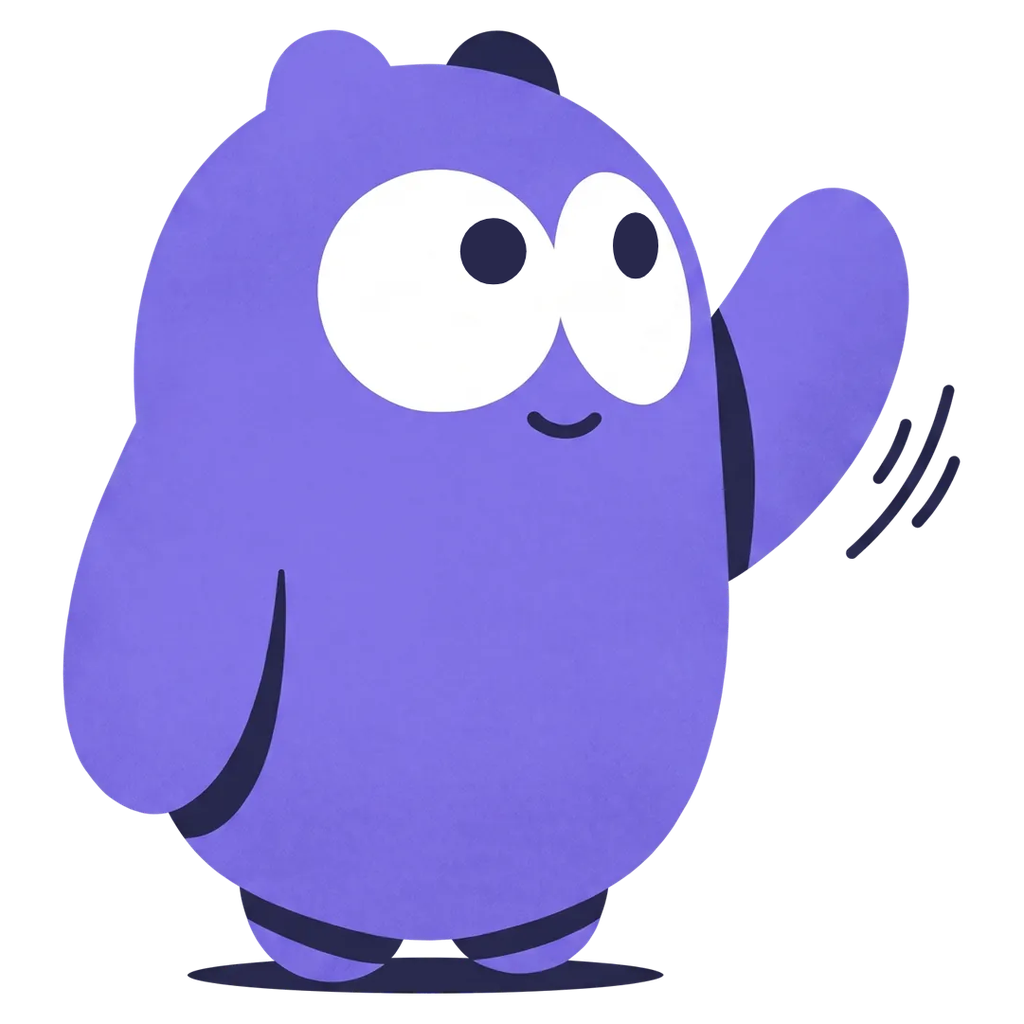
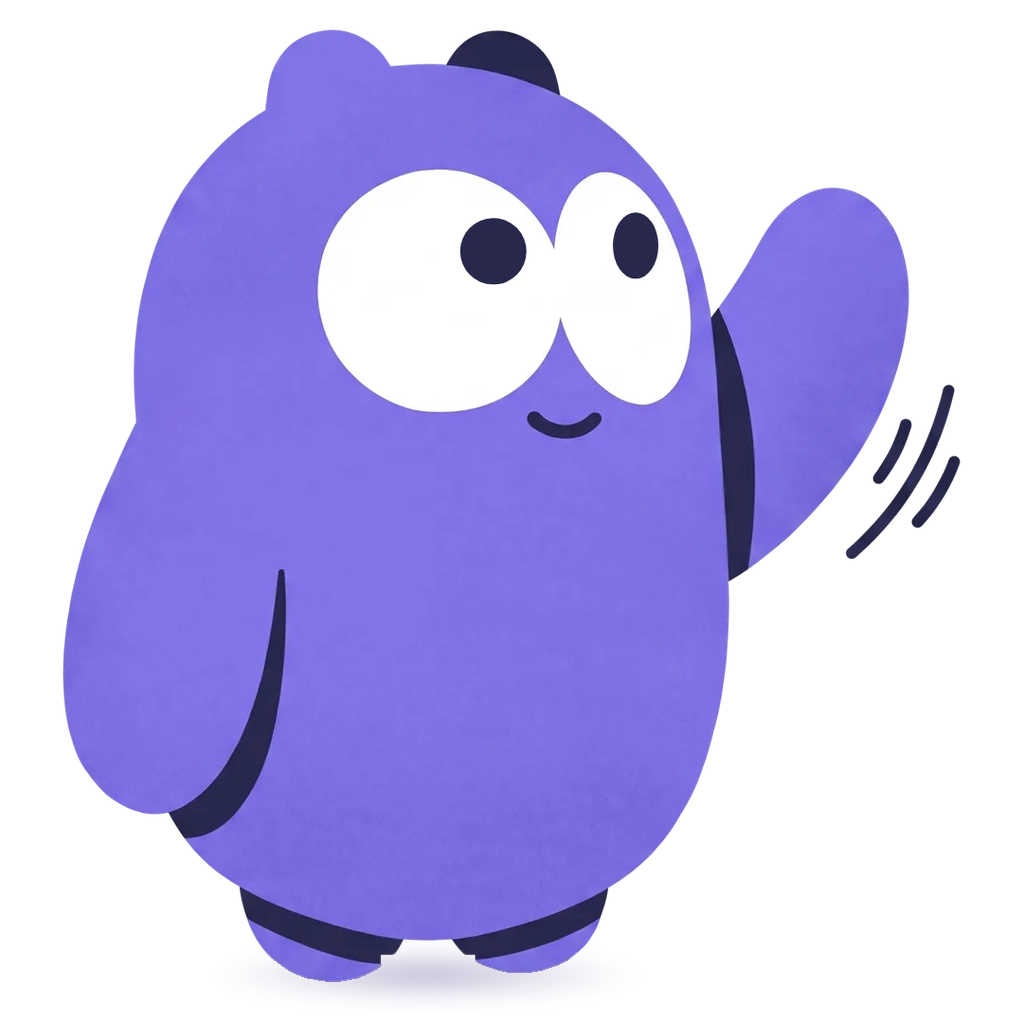
Shipped: polish both scenes and the totals
Pocket Factory
- No sticker is cut through its words any more: the QR side of a card takes the top left, the
  lime card shows whole at the bottom left, and a printed sample from Pocket Factory's gallery
  (Pulse Social) replaces the blank 'YOUR LOGO' card.
- The Tap + QR badge moves off the P logo; the background deepens from paper to lime.
- The back button turns to light glass on this light scene.

Mopkin
- The waving Mopkin shows both eyes on a phone; the magnifier Mopkin moves to the top right to
  inspect the icon; the happy one stands on the cover's corner, now sharp; the phone moves to the
  bottom right where all of its screen shows.
- Their hard navy floor ovals are now mopkin.app's own soft shadow.
- Deeper violet behind the text, so the grey labels pass contrast.

Cards and totals
- The Live chip goes (it repeated itself and pulsed forever); numbers sit just under the name.
- The totals are two tiles, each with a bar in the products' own colours, headed like the
  homepage's shop.

Claude-Session: https://claude.ai/code/session_01DNXqCmtC3gjubJpbTgqA6a

Changed region(s): [[0.1875, 0.9062, 0.6562, 0.9688]]

diff --git a/components/shipped/ShippedScenes.tsx b/components/shipped/ShippedScenes.tsx
@@ -44,14 +44,16 @@ const COVERS: Record<string, MediaAsset> = {
 };
 
 const STICKERS: Record<string, SceneSticker[]> = {
+  // A card pushed off one side of the screen only shows its other end, so each one is turned so the
+  // end that shows is the part worth seeing (the QR, the P mark), and nothing is cut through words.
   'pocket-factory': [
     {
-      key: 'card-lime',
-      src: pf.cardLime,
-      alt: 'Lime Pocket Factory card',
-      frame: { left: -372, top: -236, size: 700 },
+      key: 'card-back',
+      src: pf.cardBack,
+      alt: 'Back of a card: tap a phone, or scan the QR code',
+      frame: { left: -350, top: -210, size: 696 },
       zIndex: 4,
-      baseRotate: -17,
+      baseRotate: -13,
       movement: { x: -70, y: -112, rotate: -7, scale: 0.06, fadeRate: 0.95 },
       float: { x: -8, y: -10, rotate: -2.2, duration: '8.6s', delay: '0.1s' },
       intro: { x: -170, y: -130, rotate: -12, delay: '0.12s' },
@@ -68,10 +70,11 @@ const STICKERS: Record<string, SceneSticker[]> = {
       intro: { x: 170, y: -140, rotate: 12, delay: '0.18s' },
     },
     {
+      // Over the cover's right edge, clear of the P.
       key: 'tap-badge',
       src: pf.tapBadge,
       alt: 'Tap + QR sticker',
-      frame: { left: 642, top: 452, size: 290 },
+      frame: { left: 684, top: 452, size: 270 },
       zIndex: 25,
       baseRotate: 12,
       movement: { x: 60, y: -96, rotate: 12, scale: 0.08, fadeRate: 1.15 },
@@ -79,23 +82,24 @@ const STICKERS: Record<string, SceneSticker[]> = {
       intro: { x: 150, y: -30, rotate: 18, delay: '0.34s' },
     },
     {
-      key: 'card-back',
-      src: pf.cardBack,
-      alt: 'Back of a card: tap phone, or scan the QR code',
-      frame: { left: -430, top: 1330, size: 800 },
+      key: 'card-lime',
+      src: pf.cardLime,
+      alt: 'Lime Pocket Factory card',
+      frame: { left: -60, top: 1420, size: 560 },
       zIndex: 5,
-      baseRotate: -13,
+      baseRotate: -11,
       movement: { x: -72, y: 118, rotate: 5, scale: 0.08, fadeRate: 1.04 },
       float: { x: -8, y: -10, rotate: -1.8, duration: '8.9s', delay: '0.26s' },
       intro: { x: -180, y: 168, rotate: 10, delay: '0.36s' },
     },
     {
-      key: 'card-front',
-      src: pf.cardFront,
-      alt: 'Front of a card with your logo',
-      frame: { left: 486, top: 1350, size: 800 },
+      // A printed sample from Pocket Factory's own gallery.
+      key: 'card-sample',
+      src: pf.cardSample,
+      alt: 'A printed Pocket Factory card for a social media studio',
+      frame: { left: 500, top: 1390, size: 600 },
       zIndex: 5,
-      baseRotate: 9,
+      baseRotate: 6,
       movement: { x: 78, y: 130, rotate: -4, scale: 0.08, fadeRate: 1.08 },
       float: { x: 9, y: -9, rotate: 1.8, duration: '8.2s', delay: '0.62s' },
       intro: { x: 160, y: 176, rotate: -10, delay: '0.44s' },
@@ -103,43 +107,46 @@ const STICKERS: Record<string, SceneSticker[]> = {
   ],
   mopkin: [
     {
+      // Top right, turned to inspect the icon (top left is where the back button sits).
       key: 'magnify',
       src: mk.magnify,
       alt: 'Mopkin with a magnifying glass',
-      frame: { left: -282, top: -10, size: 470 },
+      frame: { left: 640, top: -30, size: 380 },
       zIndex: 18,
-      baseRotate: -8,
-      movement: { x: -82, y: -116, rotate: -8, scale: 0.06, fadeRate: 0.95 },
-      float: { x: -8, y: -9, rotate: -2.4, duration: '7.8s', delay: '0.1s' },
-      intro: { x: -180, y: -120, rotate: -12, delay: '0.12s' },
+      baseRotate: 8,
+      flipX: true,
+      movement: { x: 76, y: -120, rotate: 6, scale: 0.06, fadeRate: 0.95 },
+      float: { x: 8, y: -9, rotate: 2.4, duration: '7.8s', delay: '0.1s' },
+      intro: { x: 170, y: -140, rotate: 12, delay: '0.12s' },
     },
     {
       // Peeks over the top of the cover, hands on its edge (the art's ledge is 80% down).
       key: 'peek',
       src: mk.peek,
       alt: 'Mopkin peeking over the card',
-      frame: { left: 470, top: CARD_TOP - 240, size: 300 },
+      frame: { left: 330, top: CARD_TOP - 240, size: 300 },
       zIndex: 12,
       movement: { x: 30, y: -120, rotate: 6, scale: 0.05, fadeRate: 1.1 },
       float: { x: 0, y: 0, rotate: 0, duration: '8s', delay: '0s' },
       intro: { x: 0, y: -160, rotate: 0, delay: '0.5s' },
     },
     {
-      key: 'phone',
-      src: mk.phone,
-      alt: 'Mopkin on an iPhone: pick up the clothes on the floor',
-      frame: { left: 664, top: 960, size: 640 },
-      zIndex: 4,
-      baseRotate: 11,
-      movement: { x: 84, y: -60, rotate: 6, scale: 0.06, fadeRate: 0.95 },
-      float: { x: 8, y: -12, rotate: 1.6, duration: '9.4s', delay: '0.4s' },
-      intro: { x: 190, y: -40, rotate: 12, delay: '0.2s' },
+      // Standing on the cover's bottom-left corner, like the homepage's birds over SOLENYA's.
+      key: 'happy',
+      src: mk.happy,
+      alt: 'Happy Mopkin',
+      frame: { left: 0, top: 690, size: 250 },
+      zIndex: 25,
+      baseRotate: -10,
+      movement: { x: -54, y: -92, rotate: -9, scale: 0.08, fadeRate: 1.15 },
+      float: { x: -8, y: -8, rotate: -3, duration: '6.6s', delay: '0.7s' },
+      intro: { x: -140, y: -24, rotate: -14, delay: '0.34s' },
     },
     {
       key: 'wave',
       src: mk.wave,
       alt: 'Mopkin waving',
-      frame: { left: -236, top: 1380, size: 600 },
+      frame: { left: -190, top: 1380, size: 600 },
       zIndex: 5,
       baseRotate: 6,
       movement: { x: -70, y: 122, rotate: -5, scale: 0.08, fadeRate: 1.04 },
@@ -147,14 +154,15 @@ const STICKERS: Record<string, SceneSticker[]> = {
       intro: { x: -170, y: 170, rotate: -10, delay: '0.38s' },
     },
     {
-      key: 'happy',
-      src: mk.happy,
-      alt: 'Happy Mopkin',
-      frame: { left: 584, top: 1480, size: 290 },
-      zIndex: 5,
-      baseRotate: -6,
+      // Bottom right, where all of its screen shows on a phone.
+      key: 'phone',
+      src: mk.phone,
+      alt: 'Mopkin on an iPhone: pick up the clothes on the floor',
+      frame: { left: 600, top: 1400, size: 520 },
+      zIndex: 4,
+      baseRotate: 10,
       movement: { x: 78, y: 130, rotate: 5, scale: 0.08, fadeRate: 1.08 },
-      float: { x: 8, y: -10, rotate: 2.4, duration: '6.6s', delay: '0.7s' },
+      float: { x: 8, y: -12, rotate: 1.6, duration: '9.4s', delay: '0.4s' },
       intro: { x: 160, y: 176, rotate: 10, delay: '0.46s' },
     },
   ],
@@ -179,6 +187,8 @@ function ShippedCard({ project, cover, loadImages, priority, revealed }: { proje
   const colors = SCENE_TONES[project.tone];
   const hairline = project.tone === 'light' ? 'rgba(255, 255, 255, 0.18)' : 'rgba(18, 18, 14, 0.14)';
   const titleShadow = project.tone === 'light' ? 'scene-title' : undefined;
+  // A little stronger than the homepage's muted text: these labels sit on brighter gradients.
+  const muted = project.tone === 'light' ? 'rgba(255, 255, 255, 0.86)' : 'rgba(30, 23, 18, 0.7)';
 
   return (
     <div
@@ -213,35 +223,15 @@ function ShippedCard({ project, cover, loadImages, priority, revealed }: { proje
           ) : null}
         </a>
 
-        <div className="flex items-center justify-between" style={{ marginTop: scaleValue(52), gap: scaleValue(24) }}>
-          <h2
-            className={`text-balance ${titleShadow ?? ''}`}
-            style={{ margin: 0, fontFamily: SCENE_FONT, fontSize: scaleValue(62), lineHeight: 1.08, fontWeight: 650, letterSpacing: '-0.035em', color: colors.ink }}
-          >
-            {project.name}
-          </h2>
-          <span
-            className="inline-flex shrink-0 items-center"
-            style={{
-              gap: scaleValue(12),
-              height: scaleValue(54),
-              padding: `0 ${scaleValue(22)}`,
-              borderRadius: 999,
-              background: project.tone === 'light' ? 'rgba(255, 255, 255, 0.16)' : 'rgba(18, 18, 14, 0.07)',
-              boxShadow: `inset 0 0 0 1px ${hairline}`,
-              fontFamily: SCENE_FONT,
-              fontSize: `max(9px, ${scaleValue(27)})`,
-              fontWeight: 600,
-              color: colors.ink,
-            }}
-          >
-            <span aria-hidden="true" className="live-dot rounded-full" style={{ width: scaleValue(15), height: scaleValue(15), background: '#30D158' }} />
-            Live
-          </span>
-        </div>
+        <h2
+          className={`text-balance ${titleShadow ?? ''}`}
+          style={{ margin: `${scaleValue(52)} 0 0`, fontFamily: SCENE_FONT, fontSize: scaleValue(62), lineHeight: 1.08, fontWeight: 650, letterSpacing: '-0.035em', color: colors.ink }}
+        >
+          {project.name}
+        </h2>
         <p
           className={titleShadow}
-          style={{ margin: `${scaleValue(10)} 0 0`, fontFamily: SCENE_FONT, fontSize: scaleValue(34), lineHeight: 1.2, fontWeight: 500, color: colors.muted }}
+          style={{ margin: `${scaleValue(10)} 0 0`, fontFamily: SCENE_FONT, fontSize: scaleValue(34), lineHeight: 1.2, fontWeight: 500, color: muted }}
         >
           {project.kind} · {project.year}
         </p>
@@ -251,8 +241,8 @@ function ShippedCard({ project, cover, loadImages, priority, revealed }: { proje
           style={{
             // Dollar amounts are the widest numbers, so their column gets a little more room.
             gridTemplateColumns: project.stats.map((stat) => `minmax(0, ${stat.format === 'usd' ? 1.25 : 1}fr)`).join(' '),
-            marginTop: scaleValue(40),
-            paddingTop: scaleValue(34),
+            marginTop: scaleValue(34),
+            paddingTop: scaleValue(32),
             borderTop: `1px solid ${hairline}`,
           }}
         >
@@ -264,13 +254,13 @@ function ShippedCard({ project, cover, loadImages, priority, revealed }: { proje
             >
               <dt
                 className={`${titleShadow ?? ''}`}
-                style={{ marginTop: scaleValue(12), fontFamily: SCENE_FONT, fontSize: `max(9px, ${scaleValue(31)})`, lineHeight: 1.2, fontWeight: 500, color: colors.muted }}
+                style={{ marginTop: scaleValue(12), fontFamily: SCENE_FONT, fontSize: `max(9px, ${scaleValue(31)})`, lineHeight: 1.2, fontWeight: 500, color: muted }}
               >
                 {stat.label}
               </dt>
               <dd
                 className={`tabular-nums ${titleShadow ?? ''}`}
-                style={{ margin: 0, fontFamily: SCENE_FONT, fontSize: scaleValue(64), lineHeight: 1, fontWeight: 650, letterSpacing: '-0.03em', color: colors.ink }}
+                style={{ margin: 0, fontFamily: SCENE_FONT, fontSize: scaleValue(56), lineHeight: 1, fontWeight: 650, letterSpacing: '-0.03em', color: colors.ink }}
               >
                 <Odometer value={formatStat(stat)} on={revealed || entry} entry={entry} />
               </dd>
@@ -278,7 +268,7 @@ function ShippedCard({ project, cover, loadImages, priority, revealed }: { proje
           ))}
         </dl>
 
-        <div className="flex" style={{ gap: scaleValue(20), marginTop: scaleValue(48) }}>
+        <div className="flex" style={{ gap: scaleValue(20), marginTop: scaleValue(44) }}>
           <a href={project.action.href} target="_blank" rel="noopener noreferrer" className="scene-button" style={colors.primary}>
             {project.action.icon === 'apple' ? <AppleIcon size={scaleValue(40)} /> : null}
             {project.action.label}
@@ -307,33 +297,39 @@ const ShippedScene = React.memo(function ShippedScene({ project, loadImages, pri
 
 // Below the scenes the page scrolls freely: everything added up, each product on one line, the footer.
 function ShippedTotals({ revealed, loadImages }: { revealed: boolean; loadImages: boolean }) {
-  const revenue = shippedTotal('revenue');
-  const people = shippedTotal('people');
   const tiles = [
-    { label: 'Revenue', value: formatStat({ value: revenue, format: 'usd' }) },
-    { label: 'Customers & users', value: formatStat({ value: people, format: 'count' }) },
-    { label: 'Products live', value: formatStat({ value: SHIPPED_PROJECTS.length, format: 'count' }) },
+    { key: 'revenue' as const, label: 'Revenue', format: 'usd' as const },
+    { key: 'people' as const, label: 'Customers & users', format: 'count' as const },
   ];
 
   return (
     <div className="mx-auto max-w-4xl px-5 pt-24 sm:px-8 sm:pt-28">
-      <h2 className="text-[40px] font-bold leading-none tracking-[-0.035em] text-white sm:text-[56px]">Shipped</h2>
-      <p className="mt-3 text-[15px] text-white/50">As of {formatAsOf(SHIPPED_AS_OF)}</p>
-      <dl className="mt-8 grid grid-cols-2 gap-3 sm:grid-cols-3 sm:gap-4">
-        {tiles.map((tile, index) => (
-          <div
-            key={tile.label}
-            className={`shipped-tile flex flex-col-reverse justify-end rounded-[22px] p-5 sm:p-6${index === 0 ? ' col-span-2 sm:col-span-1' : ''}`}
-          >
-            <dt className="mt-2 text-[13px] font-medium text-white/55 sm:text-[14px]">{tile.label}</dt>
-            <dd className="text-[40px] font-semibold leading-none tracking-[-0.03em] text-white tabular-nums sm:text-[48px]">
-              <Odometer value={tile.value} on={revealed} />
-            </dd>
-          </div>
-        ))}
+      {/* Headed like the homepage's shop: a small dateline, then the title. */}
+      <p className="shop-eyebrow uppercase tabular-nums">{formatAsOf(SHIPPED_AS_OF, 'short')}</p>
+      <h2 className="shop-title">Shipped</h2>
+      <dl className="mt-6 grid grid-cols-2 gap-3 sm:gap-4">
+        {tiles.map((tile) => {
+          const parts = SHIPPED_PROJECTS.filter((project) => project.totals[tile.key] > 0);
+          return (
+            <div key={tile.key} className="shipped-tile flex flex-col-reverse justify-end rounded-[22px] p-5 sm:p-6">
+              <dt className="mt-2 text-[13px] font-medium text-white/60 sm:text-[14px]">
+                {tile.label}
+                {/* Each product's share, in its own colour, so the total visibly adds up from the two. */}
+                <span aria-hidden="true" className="mt-[18px] flex h-1 gap-[3px]">
+                  {parts.map((project) => (
+                    <span key={project.slug} className="rounded-full" style={{ flex: `${project.totals[tile.key]} 1 0`, background: project.accent }} />
+                  ))}
+                </span>
+              </dt>
+              <dd className="text-[clamp(28px,8.6vw,34px)] font-semibold leading-none tracking-[-0.03em] text-white tabular-nums sm:text-[48px]">
+                <Odometer value={formatStat({ value: shippedTotal(tile.key), format: tile.format })} on={revealed} />
+              </dd>
+            </div>
+          );
+        })}
       </dl>
 
-      <ul className="mt-10 border-t border-white/[0.08]">
+      <ul className="mt-7 border-t border-white/[0.08]">
         {SHIPPED_PROJECTS.map((project) => (
           <li key={project.slug} className="border-b border-white/[0.08]">
             <a
@@ -477,7 +473,7 @@ export function ShippedScenes() {
       ))}
       <div className="solenya-gradient-reveal pointer-events-none fixed inset-0 z-[1] bg-black" />
 
-      <Link href="/" className="shipped-home glass-capsule fixed z-40 inline-flex items-center gap-1.5 rounded-full text-[13px] font-semibold text-white">
+      <Link href="/" className={`shipped-home glass-capsule fixed z-40 inline-flex items-center gap-1.5 rounded-full text-[13px] font-semibold text-white${projects[activeIndex]?.tone === 'dark' ? ' is-light' : ''}`}>
         <svg width="13" height="13" viewBox="0 0 24 24" fill="none" aria-hidden="true">
           <path d="M15 18l-6-6 6-6" stroke="currentColor" strokeWidth="2.6" strokeLinecap="round" strokeLinejoin="round" />
         </svg>

diff --git a/lib/shipped.ts b/lib/shipped.ts
@@ -23,6 +23,8 @@ export type ShippedProject = {
   url: string;
   action: { label: string; href: string; icon: 'arrow' | 'apple' };
   tone: 'light' | 'dark';
+  // The product's own colour, for its share of the totals.
+  accent: string;
   background: SlideBackground;
   // Up to three numbers under the card.
   stats: ShippedStat[];
@@ -43,12 +45,13 @@ export const SHIPPED_PROJECTS: ShippedProject[] = [
     action: { label: 'Visit site', href: 'https://getpocketfactory.com', icon: 'arrow' },
     // Its own paper, ink and lime (getpocketfactory.com: --paper #f5f2eb, --ink #15170f, --acid #d6f753).
     tone: 'dark',
+    accent: '#D6F753',
     background: {
-      base: 'linear-gradient(160deg, #F8F6F0 0%, #F2EFE7 46%, #E6E9C9 100%)',
-      overlay: 'radial-gradient(circle at 84% 88%, rgba(214, 247, 83, 0.42), transparent 36%), radial-gradient(circle at 14% 10%, rgba(255, 255, 255, 0.8), transparent 30%)',
+      base: 'linear-gradient(160deg, #F8F6F0 0%, #EFEEE3 40%, #DFE7AE 76%, #CCDC74 100%)',
+      overlay: 'radial-gradient(circle at 50% 100%, rgba(214, 247, 83, 0.55), transparent 46%), radial-gradient(circle at 12% 8%, rgba(255, 255, 255, 0.95), transparent 34%)',
       topGlow: 'rgba(255, 255, 255, 0.55)',
-      bottomGlow: 'rgba(214, 247, 83, 0.3)',
-      edgeGlow: 'rgba(21, 23, 15, 0.05)',
+      bottomGlow: 'rgba(214, 247, 83, 0.42)',
+      edgeGlow: 'rgba(21, 23, 15, 0.06)',
     },
     stats: [
       {
@@ -81,11 +84,12 @@ export const SHIPPED_PROJECTS: ShippedProject[] = [
     action: { label: 'App Store', href: 'https://apps.apple.com/us/app/mopkin-ai-cleaning-buddy/id6792544692', icon: 'apple' },
     // Its App Store washes: deep indigo into violet, warming to apricot (mopkin.app --violet #6e5eec).
     tone: 'light',
+    accent: '#7B6BF2',
     background: {
-      base: 'linear-gradient(165deg, #1F1A5C 0%, #3B2DB0 38%, #5F4CE0 66%, #E58C74 100%)',
-      overlay: 'radial-gradient(circle at 18% 14%, rgba(165, 138, 247, 0.32), transparent 30%), radial-gradient(circle at 84% 90%, rgba(253, 185, 122, 0.38), transparent 34%)',
+      base: 'linear-gradient(165deg, #1F1A5C 0%, #3B2DB0 38%, #4F3FD2 66%, #6A4CC6 86%, #E58C74 116%)',
+      overlay: 'radial-gradient(circle at 18% 14%, rgba(165, 138, 247, 0.32), transparent 30%), radial-gradient(circle at 84% 98%, rgba(253, 185, 122, 0.42), transparent 28%)',
       topGlow: 'rgba(140, 118, 255, 0.28)',
-      bottomGlow: 'rgba(253, 131, 119, 0.26)',
+      bottomGlow: 'rgba(253, 131, 119, 0.13)',
       edgeGlow: 'rgba(255, 255, 255, 0.05)',
     },
     stats: [
@@ -125,6 +129,6 @@ export function shippedTotal(key: 'revenue' | 'people'): number {
   return SHIPPED_PROJECTS.reduce((sum, project) => sum + project.totals[key], 0);
 }
 
-export function formatAsOf(date: string): string {
-  return new Date(`${date}T12:00:00Z`).toLocaleDateString('en-US', { month: 'long', day: 'numeric', year: 'numeric', timeZone: 'UTC' });
+export function formatAsOf(date: string, month: 'long' | 'short' = 'long'): string {
+  return new Date(`${date}T12:00:00Z`).toLocaleDateString('en-US', { month, day: 'numeric', year: 'numeric', timeZone: 'UTC' });
 }

diff --git a/app/globals.css b/app/globals.css
@@ -2302,6 +2302,13 @@ button[class*="transition"], a[class*="transition"] {
   transition: transform 200ms var(--motion-ease);
 }
 
+/* On the light Pocket Factory scene the button turns to light glass, as the page dots turn to ink. */
+.shipped-home.is-light {
+  background: rgba(255, 255, 255, 0.66);
+  color: #15170F;
+  box-shadow: inset 0 0 0 0.5px rgba(21, 23, 15, 0.08), 0 8px 24px -8px rgba(21, 23, 15, 0.22), 0 1px 3px rgba(21, 23, 15, 0.08);
+}
+
 .shipped-home:active {
   transform: scale(0.97);
 }

diff --git a/lib/assets.ts b/lib/assets.ts
@@ -62,7 +62,7 @@ export const shippedSceneAssets = {
     cardLime: media['scenes/shipped-pocket-factory/card-lime'],
     cardBlack: media['scenes/shipped-pocket-factory/card-black'],
     cardBack: media['scenes/shipped-pocket-factory/card-back'],
-    cardFront: media['scenes/shipped-pocket-factory/card-front'],
+    cardSample: media['scenes/shipped-pocket-factory/card-sample'],
     tapBadge: media['scenes/shipped-pocket-factory/tap-badge'],
   },
   mopkin: {
